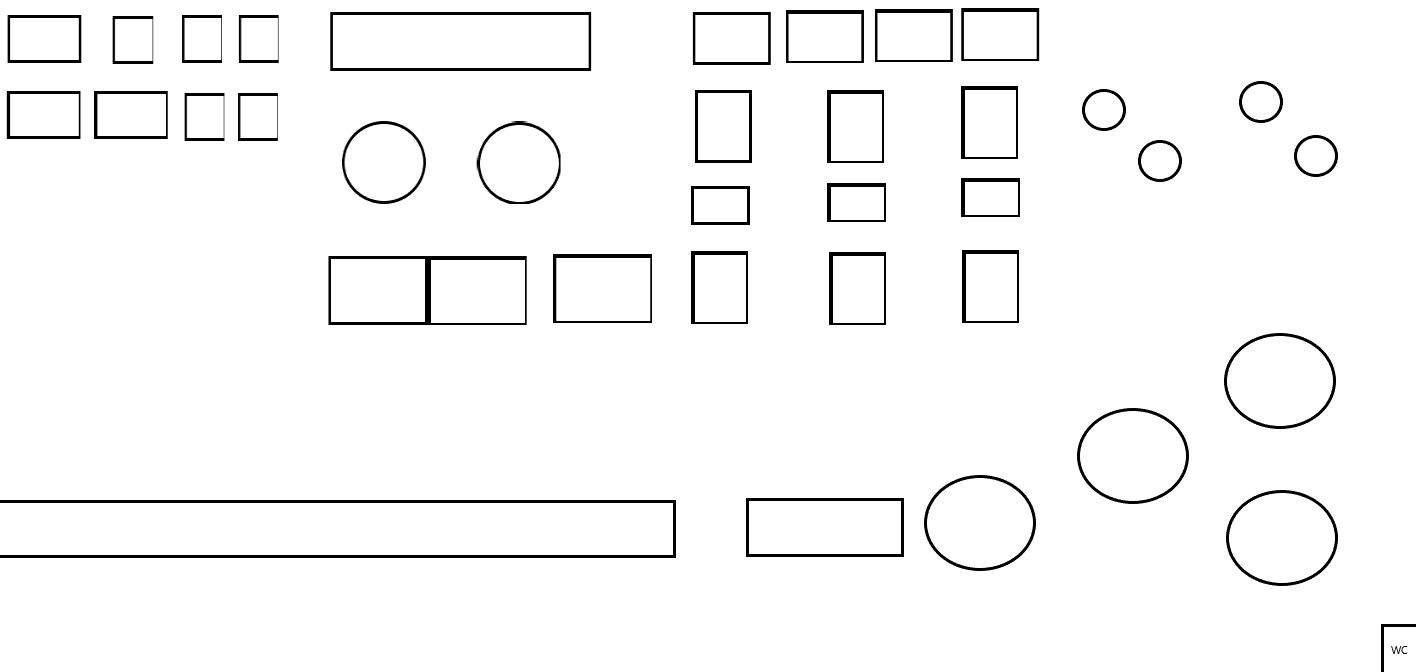
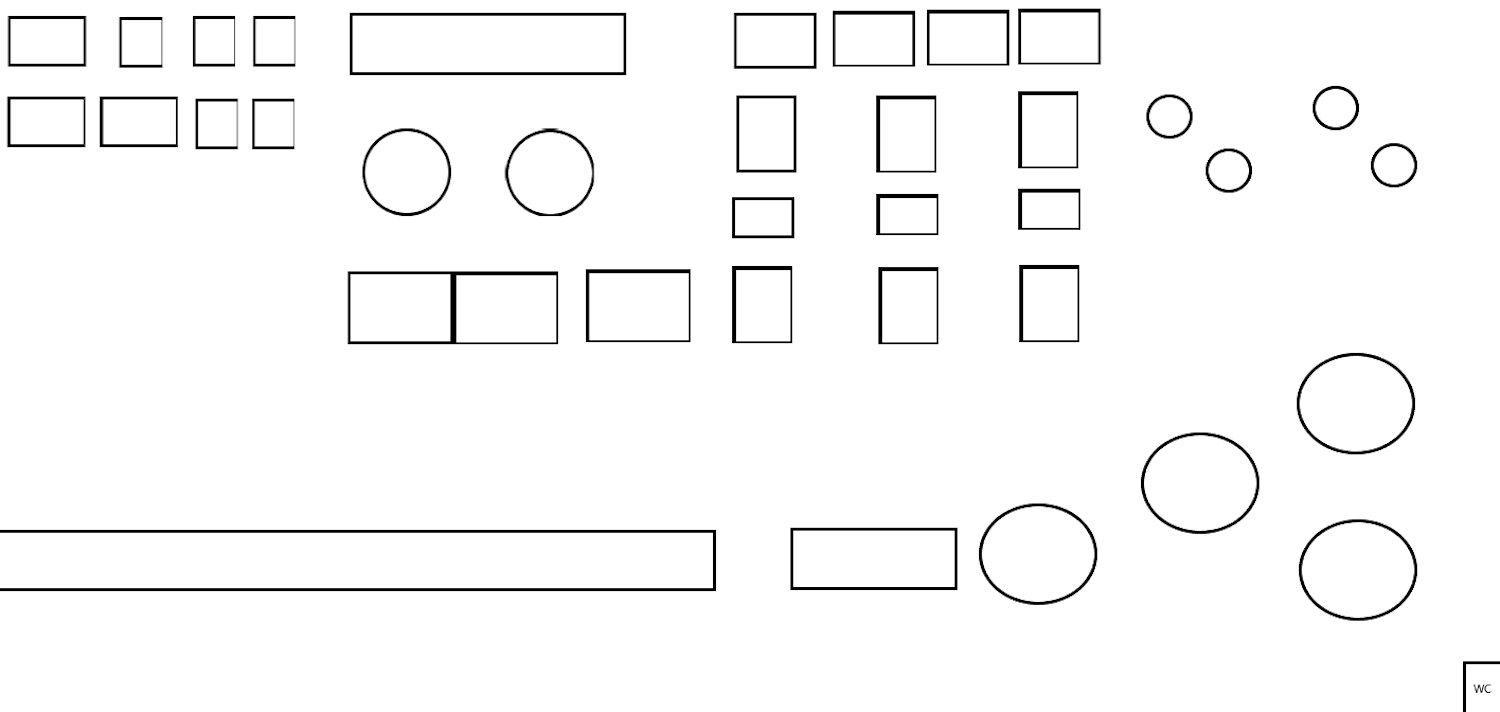
01/08 code commit

diff --git a/index.html b/index.html
@@ -33,7 +33,7 @@
 		<font face="微軟正黑體">
 			<div id = "data">
 				<h1> 餐廳座位狀態: </h1>
-				<p id="wms"><img src="both are false.png"></p>
+				<p id="wms"><img src="both are false.png" width = 100%/></p>
 				
 				<p id="TIME"> Loading </p>
 			</div>
